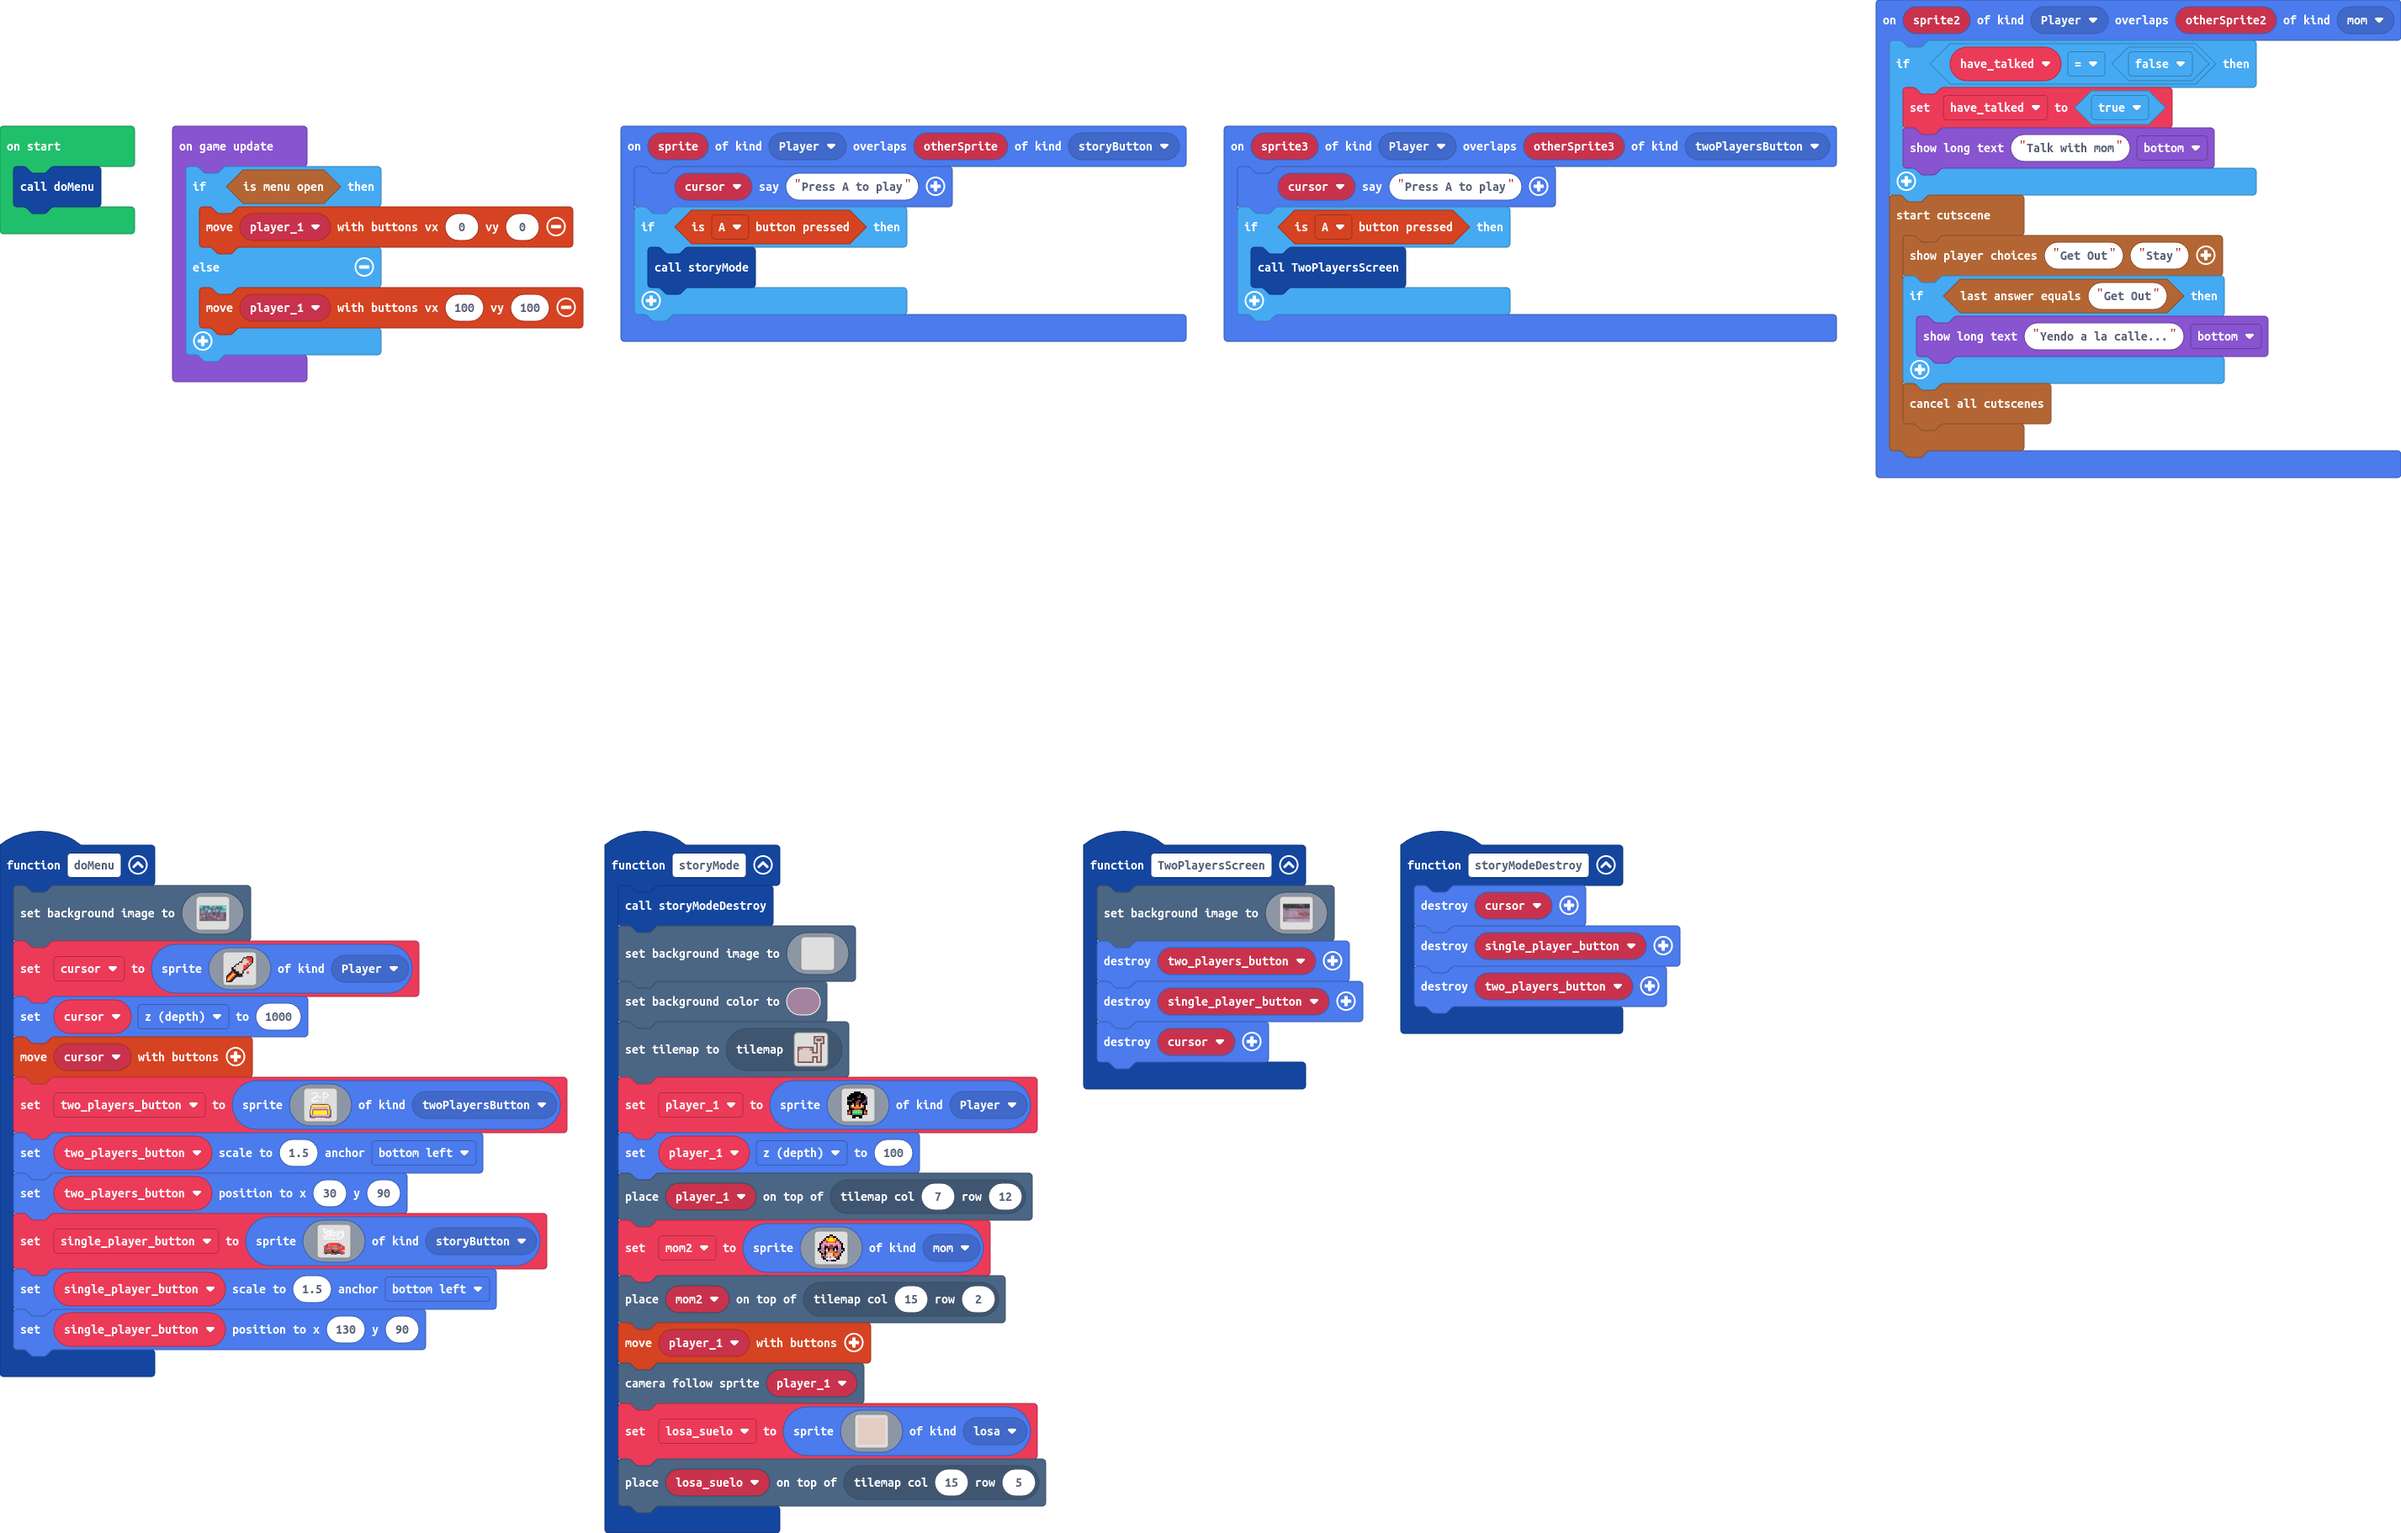
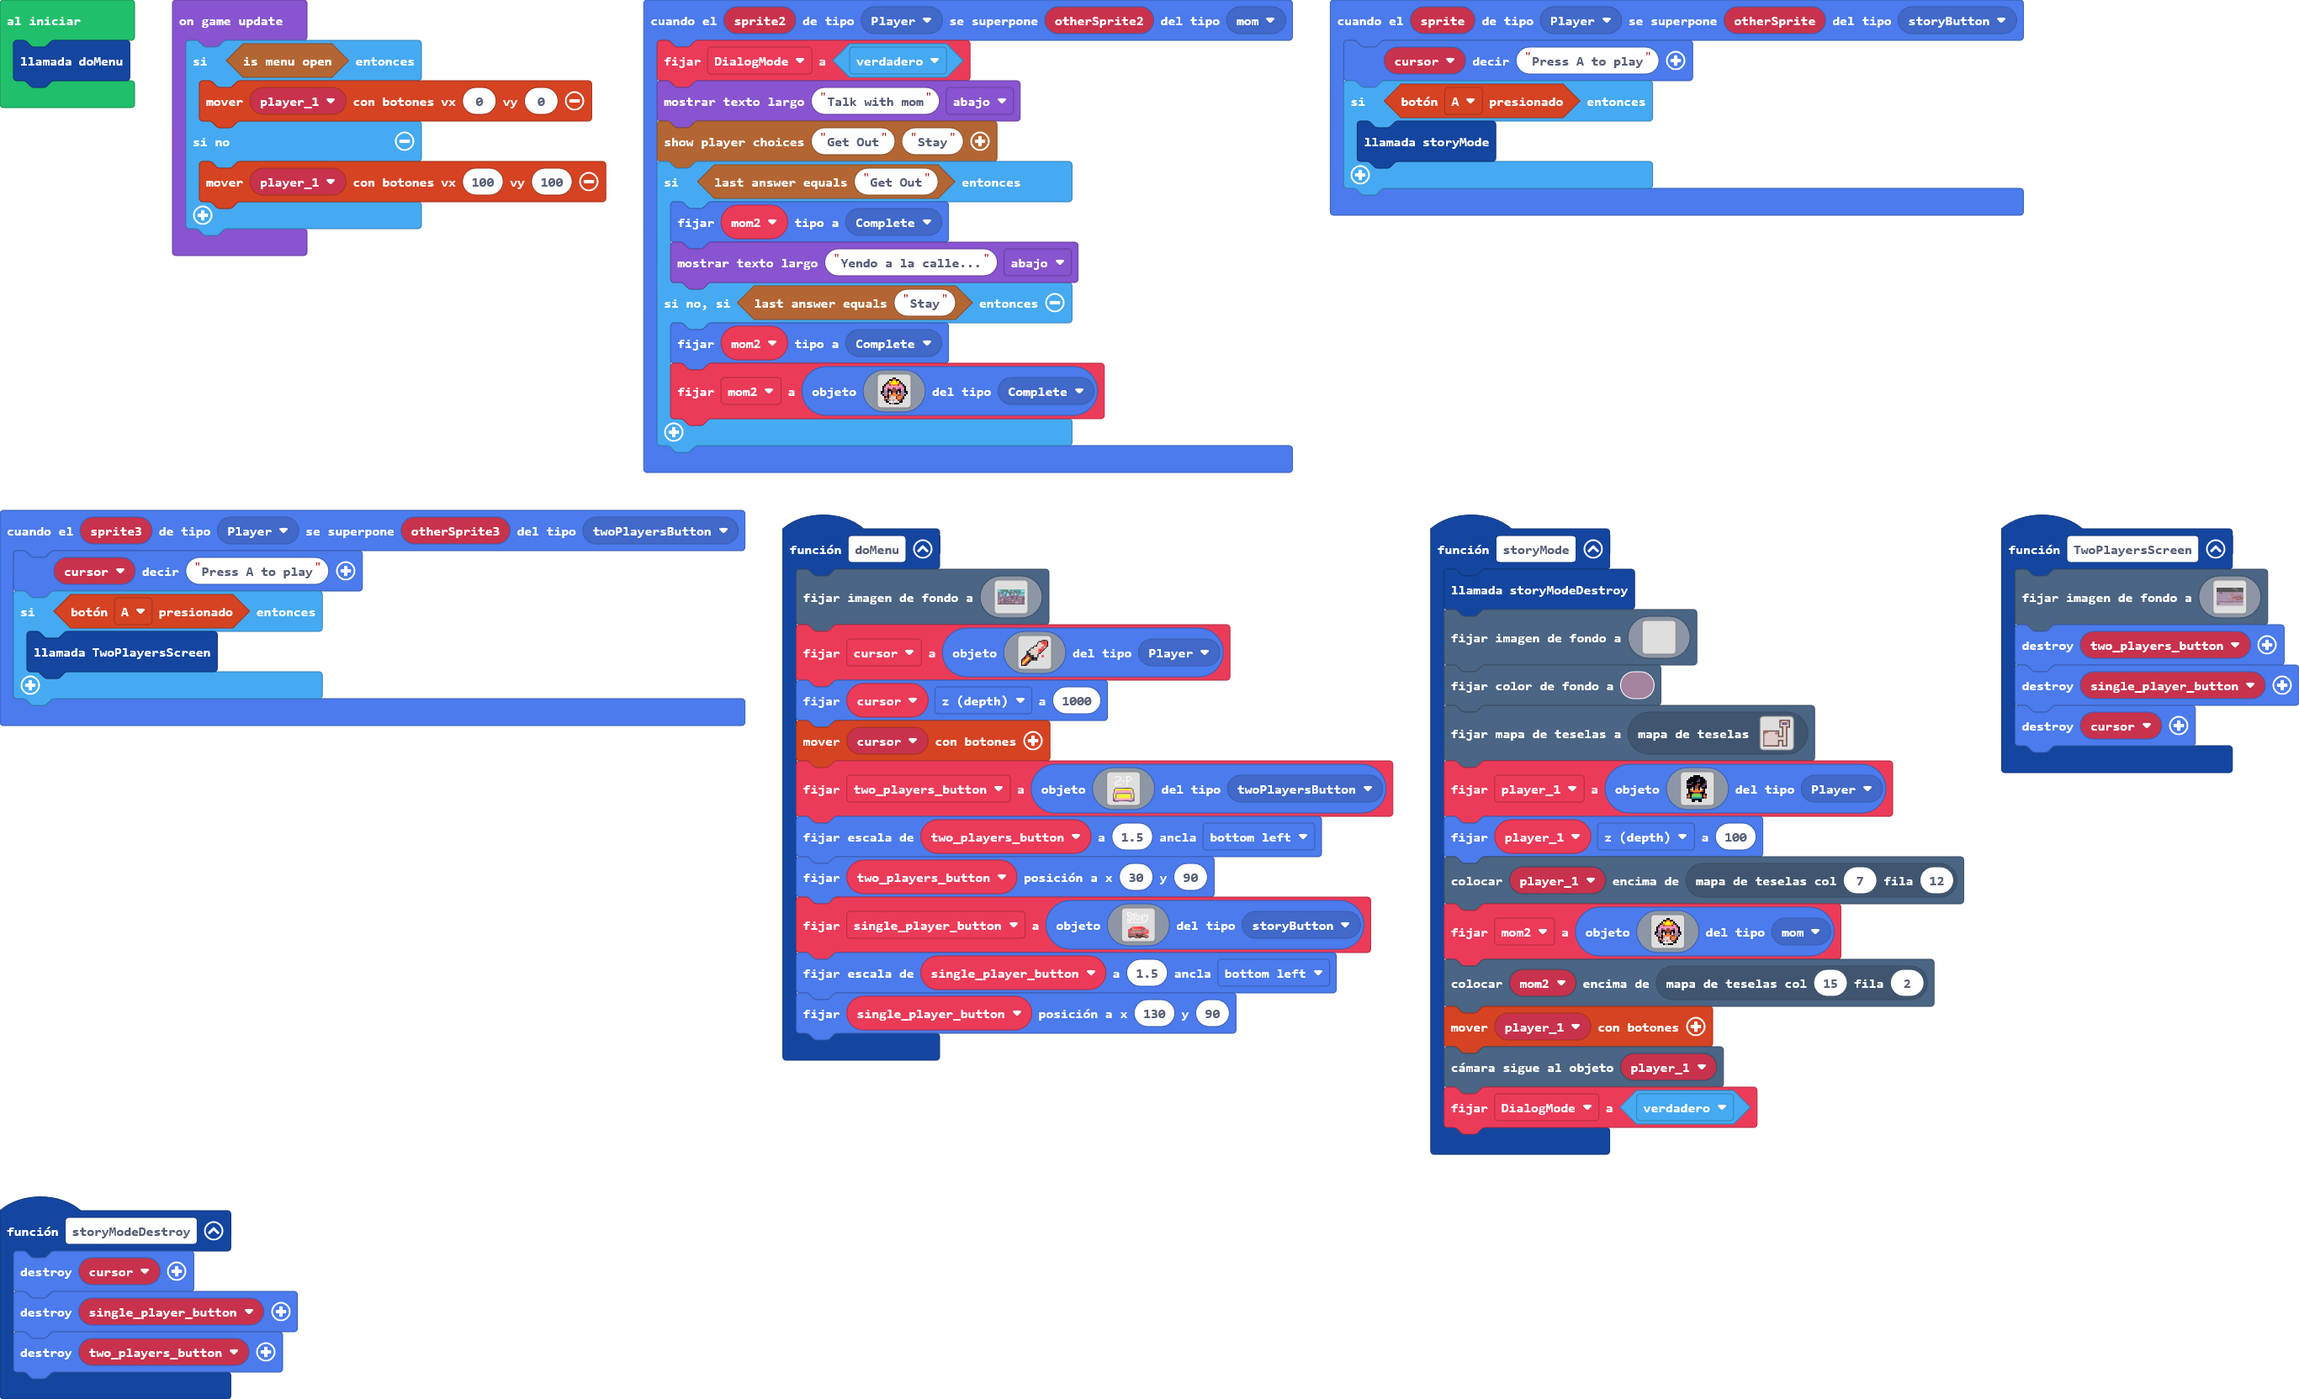
No habla con la madre infinitamente

diff --git a/main.ts b/main.ts
@@ -3,6 +3,7 @@ namespace SpriteKind {
     export const storyButton = SpriteKind.create()
     export const mom = SpriteKind.create()
     export const losa = SpriteKind.create()
+    export const Complete = SpriteKind.create()
 }
 sprites.onOverlap(SpriteKind.Player, SpriteKind.storyButton, function (sprite, otherSprite) {
     cursor.sayText("Press A to play")
@@ -295,25 +296,7 @@ function storyMode () {
     tiles.placeOnTile(mom2, tiles.getTileLocation(15, 2))
     controller.moveSprite(player_1)
     scene.cameraFollowSprite(player_1)
-    losa_suelo = sprites.create(img`
-        d d d d d d d d d d d d d d d d 
-        d d d d d d d d d d d d d d d d 
-        d d d d d d d d d d d d d d d d 
-        d d d d d d d d d d d d d d d d 
-        d d d d d d d d d d d d d d d d 
-        d d d d d d d d d d d d d d d d 
-        d d d d d d d d d d d d d d d d 
-        d d d d d d d d d d d d d d d d 
-        d d d d d d d d d d d d d d d d 
-        d d d d d d d d d d d d d d d d 
-        d d d d d d d d d d d d d d d d 
-        d d d d d d d d d d d d d d d d 
-        d d d d d d d d d d d d d d d d 
-        d d d d d d d d d d d d d d d d 
-        d d d d d d d d d d d d d d d d 
-        d d d d d d d d d d d d d d d d 
-        `, SpriteKind.losa)
-    tiles.placeOnTile(losa_suelo, tiles.getTileLocation(15, 5))
+    DialogMode = true
 }
 function doMenu () {
     scene.setBackgroundImage(img`
@@ -512,20 +495,35 @@ sprites.onOverlap(SpriteKind.Player, SpriteKind.twoPlayersButton, function (spri
     }
 })
 sprites.onOverlap(SpriteKind.Player, SpriteKind.mom, function (sprite2, otherSprite2) {
-    if (have_talked == false) {
-        have_talked = true
-        game.showLongText("Talk with mom", DialogLayout.Bottom)
+    DialogMode = true
+    game.showLongText("Talk with mom", DialogLayout.Bottom)
+    story.showPlayerChoices("Get Out", "Stay")
+    if (story.checkLastAnswer("Get Out")) {
+        mom2.setKind(SpriteKind.Complete)
+        game.showLongText("Yendo a la calle...", DialogLayout.Bottom)
+    } else if (story.checkLastAnswer("Stay")) {
+        mom2.setKind(SpriteKind.Complete)
+        mom2 = sprites.create(img`
+            . . . . . . . f f . . . . . . . 
+            . . . . . f f 4 4 f f . . . . . 
+            . . . . f 5 4 5 5 4 5 f . . . . 
+            . . . f e 4 5 5 5 5 4 e f . . . 
+            . . f b 3 e 4 4 4 4 e 3 b f . . 
+            . f e 3 3 3 3 3 3 3 3 3 3 e f . 
+            . f 3 3 e b 3 e e 3 b e 3 3 f . 
+            . f b 3 f f e e e e f f 3 b f . 
+            f f b b f b f e e f b f b b f f 
+            f b b b e 1 f 4 4 f 1 e b b b f 
+            . f b b f 4 4 4 4 4 e e b b f . 
+            . . f e f b d d d e 4 4 4 f . . 
+            . . e 4 c d d d d e 4 4 e f . . 
+            . . e f b b d b d d e e f . . . 
+            . . . f f 1 1 d 1 d 1 f f . . . 
+            . . . . . f b b f f f . . . . . 
+            `, SpriteKind.Complete)
     }
-    story.startCutscene(function () {
-        story.showPlayerChoices("Get Out", "Stay")
-        if (story.checkLastAnswer("Get Out")) {
-            game.showLongText("Yendo a la calle...", DialogLayout.Bottom)
-        }
-        story.cancelAllCutscenes()
-    })
 })
-let have_talked = false
-let losa_suelo: Sprite = null
+let DialogMode = false
 let mom2: Sprite = null
 let player_1: Sprite = null
 let two_players_button: Sprite = null

diff --git a/tilemap.g.ts b/tilemap.g.ts
@@ -1,4 +1,4 @@
-// Auto-generated code. Do not edit.
+// Código generado automáticamente. No editar.
 namespace myTiles {
     //% fixedInstance jres blockIdentity=images._tile
     export const transparency16 = image.ofBuffer(hex``);
@@ -149,4 +149,4 @@ namespace myTiles {
     })
 
 }
-// Auto-generated code. Do not edit.
+// Código generado automáticamente. No editar.

diff --git a/main.py b/main.py
@@ -4,6 +4,7 @@ class SpriteKind:
     storyButton = SpriteKind.create()
     mom = SpriteKind.create()
     losa = SpriteKind.create()
+    Complete = SpriteKind.create()
 
 def on_on_overlap(sprite, otherSprite):
     cursor.say_text("Press A to play")
@@ -128,7 +129,7 @@ def TwoPlayersScreen():
     sprites.destroy(single_player_button)
     sprites.destroy(cursor)
 def storyMode():
-    global player_1, mom2, losa_suelo
+    global player_1, mom2, DialogMode
     storyModeDestroy()
     scene.set_background_image(img("""
         ................................................................................................................................................................
@@ -257,68 +258,49 @@ def storyMode():
         level2
     """))
     player_1 = sprites.create(img("""
-            . . . . f f f f . . . . . 
-                    . . f f f f f f f f . . . 
-                    . f f f f f f c f f f . . 
-                    f f f f f f c c f f f c . 
-                    f f f c f f f f f f f c . 
-                    c c c f f f e e f f c c . 
-                    f f f f f e e f f c c f . 
-                    f f f b f e e f b f f f . 
-                    . f 4 1 f 4 4 f 1 4 f . . 
-                    . f e 4 4 4 4 4 4 e f . . 
-                    . f f f e e e e f f f . . 
-                    f e f b 7 7 7 7 b f e f . 
-                    e 4 f 7 7 7 7 7 7 f 4 e . 
-                    e e f 6 6 6 6 6 6 f e e . 
-                    . . . f f f f f f . . . . 
+            . . . . f f f f . . . . .
+                    . . f f f f f f f f . . .
+                    . f f f f f f c f f f . .
+                    f f f f f f c c f f f c .
+                    f f f c f f f f f f f c .
+                    c c c f f f e e f f c c .
+                    f f f f f e e f f c c f .
+                    f f f b f e e f b f f f .
+                    . f 4 1 f 4 4 f 1 4 f . .
+                    . f e 4 4 4 4 4 4 e f . .
+                    . f f f e e e e f f f . .
+                    f e f b 7 7 7 7 b f e f .
+                    e 4 f 7 7 7 7 7 7 f 4 e .
+                    e e f 6 6 6 6 6 6 f e e .
+                    . . . f f f f f f . . . .
                     . . . f f . . f f . . . .
         """),
         SpriteKind.player)
     player_1.z = 100
     tiles.place_on_tile(player_1, tiles.get_tile_location(7, 12))
     mom2 = sprites.create(img("""
-            . . . . . . . f f . . . . . . . 
-                    . . . . . f f 4 4 f f . . . . . 
-                    . . . . f 5 4 5 5 4 5 f . . . . 
-                    . . . f e 4 5 5 5 5 4 e f . . . 
-                    . . f b 3 e 4 4 4 4 e 3 b f . . 
-                    . f e 3 3 3 3 3 3 3 3 3 3 e f . 
-                    . f 3 3 e b 3 e e 3 b e 3 3 f . 
-                    . f b 3 f f e e e e f f 3 b f . 
-                    f f b b f b f e e f b f b b f f 
-                    f b b b e 1 f 4 4 f 1 e b b b f 
-                    . f b b f 4 4 4 4 4 e e b b f . 
-                    . . f e f b d d d e 4 4 4 f . . 
-                    . . e 4 c d d d d e 4 4 e f . . 
-                    . . e f b b d b d d e e f . . . 
-                    . . . f f 1 1 d 1 d 1 f f . . . 
+            . . . . . . . f f . . . . . . .
+                    . . . . . f f 4 4 f f . . . . .
+                    . . . . f 5 4 5 5 4 5 f . . . .
+                    . . . f e 4 5 5 5 5 4 e f . . .
+                    . . f b 3 e 4 4 4 4 e 3 b f . .
+                    . f e 3 3 3 3 3 3 3 3 3 3 e f .
+                    . f 3 3 e b 3 e e 3 b e 3 3 f .
+                    . f b 3 f f e e e e f f 3 b f .
+                    f f b b f b f e e f b f b b f f
+                    f b b b e 1 f 4 4 f 1 e b b b f
+                    . f b b f 4 4 4 4 4 e e b b f .
+                    . . f e f b d d d e 4 4 4 f . .
+                    . . e 4 c d d d d e 4 4 e f . .
+                    . . e f b b d b d d e e f . . .
+                    . . . f f 1 1 d 1 d 1 f f . . .
                     . . . . . f b b f f f . . . . .
         """),
         SpriteKind.mom)
     tiles.place_on_tile(mom2, tiles.get_tile_location(15, 2))
     controller.move_sprite(player_1)
     scene.camera_follow_sprite(player_1)
-    losa_suelo = sprites.create(img("""
-            d d d d d d d d d d d d d d d d 
-                    d d d d d d d d d d d d d d d d 
-                    d d d d d d d d d d d d d d d d 
-                    d d d d d d d d d d d d d d d d 
-                    d d d d d d d d d d d d d d d d 
-                    d d d d d d d d d d d d d d d d 
-                    d d d d d d d d d d d d d d d d 
-                    d d d d d d d d d d d d d d d d 
-                    d d d d d d d d d d d d d d d d 
-                    d d d d d d d d d d d d d d d d 
-                    d d d d d d d d d d d d d d d d 
-                    d d d d d d d d d d d d d d d d 
-                    d d d d d d d d d d d d d d d d 
-                    d d d d d d d d d d d d d d d d 
-                    d d d d d d d d d d d d d d d d 
-                    d d d d d d d d d d d d d d d d
-        """),
-        SpriteKind.losa)
-    tiles.place_on_tile(losa_suelo, tiles.get_tile_location(15, 5))
+    DialogMode = True
 def doMenu():
     global cursor, two_players_button, single_player_button
     scene.set_background_image(img("""
@@ -522,22 +504,37 @@ sprites.on_overlap(SpriteKind.player,
     on_on_overlap2)
 
 def on_on_overlap3(sprite2, otherSprite2):
-    global have_talked
-    if have_talked == False:
-        have_talked = True
-        game.show_long_text("Talk with mom", DialogLayout.BOTTOM)
-    
-    def on_start_cutscene():
-        story.show_player_choices("Get Out", "Stay")
-        if story.check_last_answer("Get Out"):
-            game.show_long_text("Yendo a la calle...", DialogLayout.BOTTOM)
-        story.cancel_all_cutscenes()
-    story.start_cutscene(on_start_cutscene)
-    
+    global DialogMode, mom2
+    DialogMode = True
+    game.show_long_text("Talk with mom", DialogLayout.BOTTOM)
+    story.show_player_choices("Get Out", "Stay")
+    if story.check_last_answer("Get Out"):
+        mom2.set_kind(SpriteKind.Complete)
+        game.show_long_text("Yendo a la calle...", DialogLayout.BOTTOM)
+    elif story.check_last_answer("Stay"):
+        mom2.set_kind(SpriteKind.Complete)
+        mom2 = sprites.create(img("""
+                . . . . . . . f f . . . . . . .
+                            . . . . . f f 4 4 f f . . . . .
+                            . . . . f 5 4 5 5 4 5 f . . . .
+                            . . . f e 4 5 5 5 5 4 e f . . .
+                            . . f b 3 e 4 4 4 4 e 3 b f . .
+                            . f e 3 3 3 3 3 3 3 3 3 3 e f .
+                            . f 3 3 e b 3 e e 3 b e 3 3 f .
+                            . f b 3 f f e e e e f f 3 b f .
+                            f f b b f b f e e f b f b b f f
+                            f b b b e 1 f 4 4 f 1 e b b b f
+                            . f b b f 4 4 4 4 4 e e b b f .
+                            . . f e f b d d d e 4 4 4 f . .
+                            . . e 4 c d d d d e 4 4 e f . .
+                            . . e f b b d b d d e e f . . .
+                            . . . f f 1 1 d 1 d 1 f f . . .
+                            . . . . . f b b f f f . . . . .
+            """),
+            SpriteKind.Complete)
 sprites.on_overlap(SpriteKind.player, SpriteKind.mom, on_on_overlap3)
 
-have_talked = False
-losa_suelo: Sprite = None
+DialogMode = False
 mom2: Sprite = None
 player_1: Sprite = None
 two_players_button: Sprite = None
